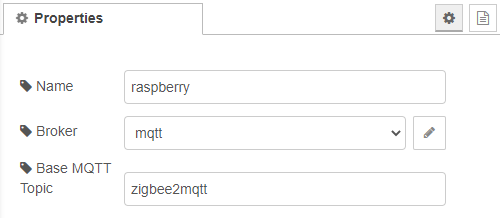
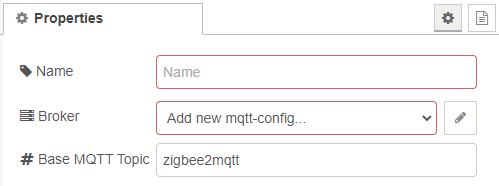
Styled bridge config frontend

diff --git a/src/zigbee2mqtt-config.html b/src/zigbee2mqtt-config.html
@@ -13,17 +13,24 @@
 </script>
 
 <script type="text/html" data-template-name="zigbee2mqtt-bridge-config">
-    <div class="form-row">
-        <label for="node-config-input-name"><i class="fa fa-tag"></i> Name</label>
-        <input type="text" id="node-config-input-name" placeholder="Name" />
-    </div>	
-    <div class="form-row">
-        <label for="node-config-input-broker"><i class="fa fa-tag"></i> Broker</label>
-        <input type="text" id="node-config-input-mqtt" />
-    </div>
-    <div class="form-row">
-        <label for="node-config-input-baseTopic"><i class="fa fa-tag"></i> Base MQTT Topic</label>
-        <input type="text" id="node-config-input-baseTopic" placeholder="topic" />
+    <style>
+        .zigbee2mqtt-bridge-config-editor label{
+            width:132px !important;
+        }
+    </style>
+    <div class="zigbee2mqtt-bridge-config-editor">
+        <div class="form-row">
+            <label for="node-config-input-name"><i class="fa fa-tag"></i> Name</label>
+            <input type="text" id="node-config-input-name" placeholder="Name" />
+        </div>	
+        <div class="form-row">
+            <label for="node-config-input-broker"><i class="fa fa-server"></i> Broker</label>
+            <input type="text" id="node-config-input-mqtt" />
+        </div>
+        <div class="form-row">
+            <label for="node-config-input-baseTopic"><i class="fa fa-hashtag"></i> Base MQTT Topic</label>
+            <input type="text" id="node-config-input-baseTopic" placeholder="topic" />
+        </div>
     </div>
 </script>
 
